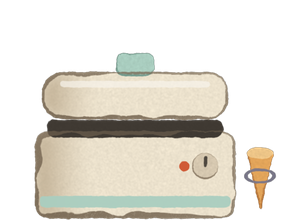
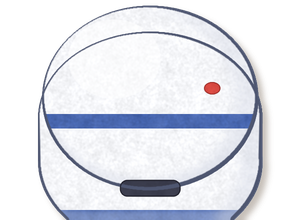
Waffle machine: round white-and-blue iron, moved off the cake's place (owner, 22 October night: "it took the place of strawberry cake", "use the white and blue style", "change the shape to round"). Anchors now the counter's front-left corner over the painted whisk (0.03, 0.418)-(0.225, 0.50); pictur

diff --git a/Assets/Scripts/Kitchen/KitchenWaffleMachine.cs b/Assets/Scripts/Kitchen/KitchenWaffleMachine.cs
@@ -4,7 +4,7 @@ using UnityEngine.EventSystems;
 using UnityEngine.UI;
 
 /// The kitchen waffle machine (owner, 22 October 2026: "a refill system for the cones too, a waffle machine in
-/// kitchen"). Chapter 2 only. It sits on the counter's right, under the window, built at kitchen load like the
+/// kitchen"). Chapter 2 only. It sits on the counter's front left, in front of the blender, built at kitchen load like the
 /// blender and anchored to the background's rectangle so every phone sees it at the same spot. A tap refills the
 /// table's cone holder to four (done as the tap lands, like the blender's refill: closing the kitchen mid-bake
 /// unloads the scene and the coroutine with it) and plays the bake (WaffleAnim): the plate glows, steam rises,
@@ -13,7 +13,9 @@ using UnityEngine.UI;
 /// (Kitchen/waffle_cone, or the station's own cone picture when that is missing).
 public static class KitchenWaffleMachine
 {
-    static readonly Vector2 Min = new Vector2(0.655f, 0.49f), Max = new Vector2(0.933f, 0.6046f);   // the box on the 1080 x 1920 background (300 x 220 px)
+    // the box on the 1080 x 1920 background: the counter's front-left corner, over the painted whisk (210 x 157 px, the 300 x 220
+    // picture at 0.7). The counter's right is the strawberry cake's place (owner, 22 October night: "it needs to be placed somewhere else").
+    static readonly Vector2 Min = new Vector2(0.03f, 0.418f), Max = new Vector2(0.225f, 0.50f);
 
     public static void Apply()
     {

diff --git a/Docs/MANUAL.md b/Docs/MANUAL.md
@@ -183,7 +183,8 @@ plain `python3` has no numpy.
   served or cleared, an empty holder refuses with a shake, the holder picture per count comes from
   `Resources/IceCream/holder_0..4` (the cone sprite session's files; `holderSprite` greyed when they are missing). The
   **kitchen waffle machine** (`KitchenWaffleMachine.Apply` from the first oven's Awake, chapter 2 only, on the counter's
-  right under the window, box x 0.655 to 0.933, y 0.49 to 0.6046 of the background, 300 x 220 px) refills the holder as the
+  front left in front of the blender, box x 0.03 to 0.225, y 0.418 to 0.50 of the background, 210 x 157 px; the counter's
+  right is the cake's place) refills the holder as the
   tap lands and plays the bake (`WaffleAnim`: a warm glow, three steam puffs, the lid opens, a cone pops out, the lid
   shuts). Pictures `Resources/Kitchen/waffle_closed`, `waffle_open`, `waffle_steam`, optional `waffle_cone` and
   `waffle_bake` sound (none yet): the pictures are the brief session's 22 October drafts (`Store/redesign/icecream_row/out`), ChatGPT's version waits for the quota and the owner's pick. The driver
